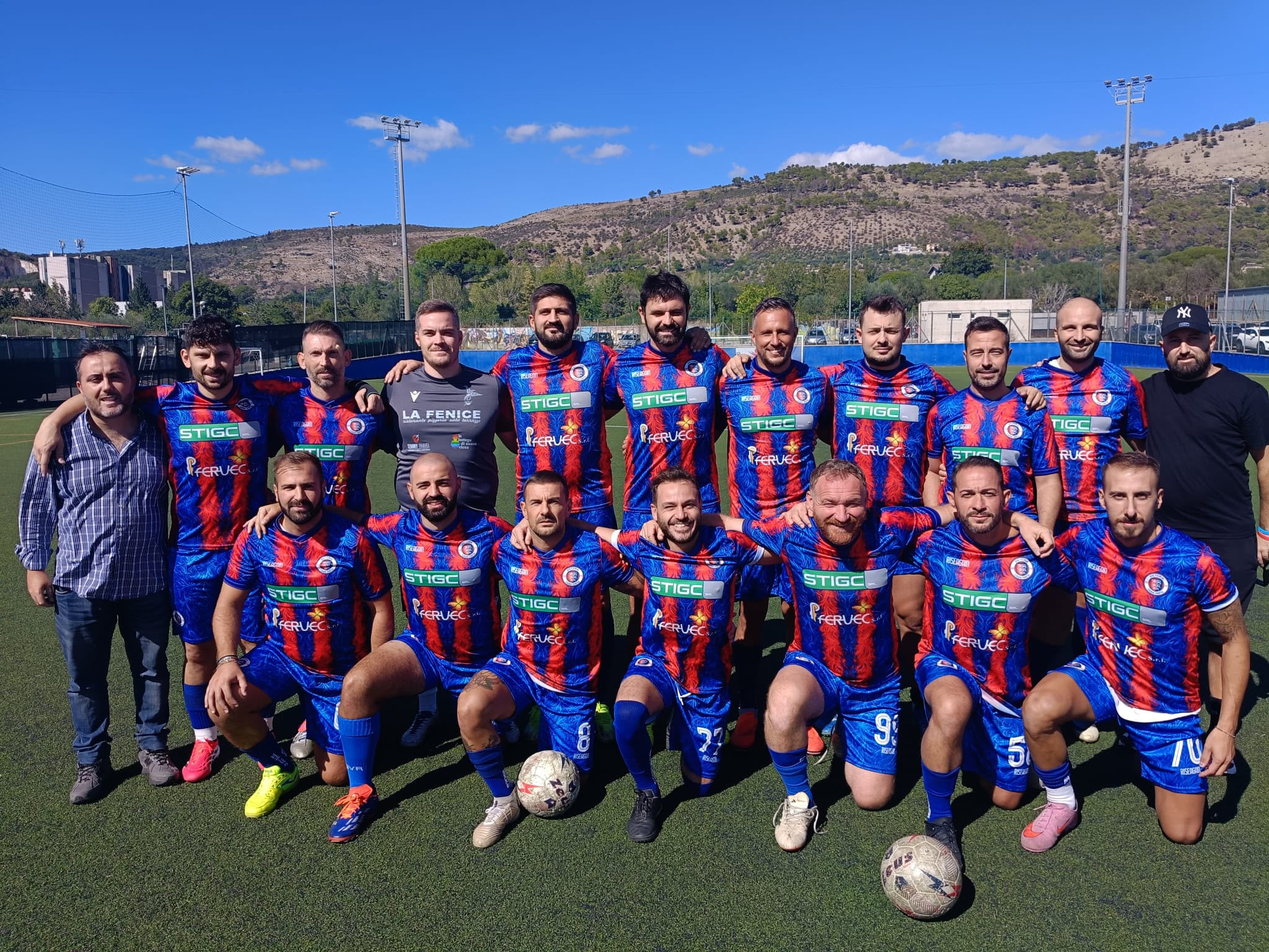
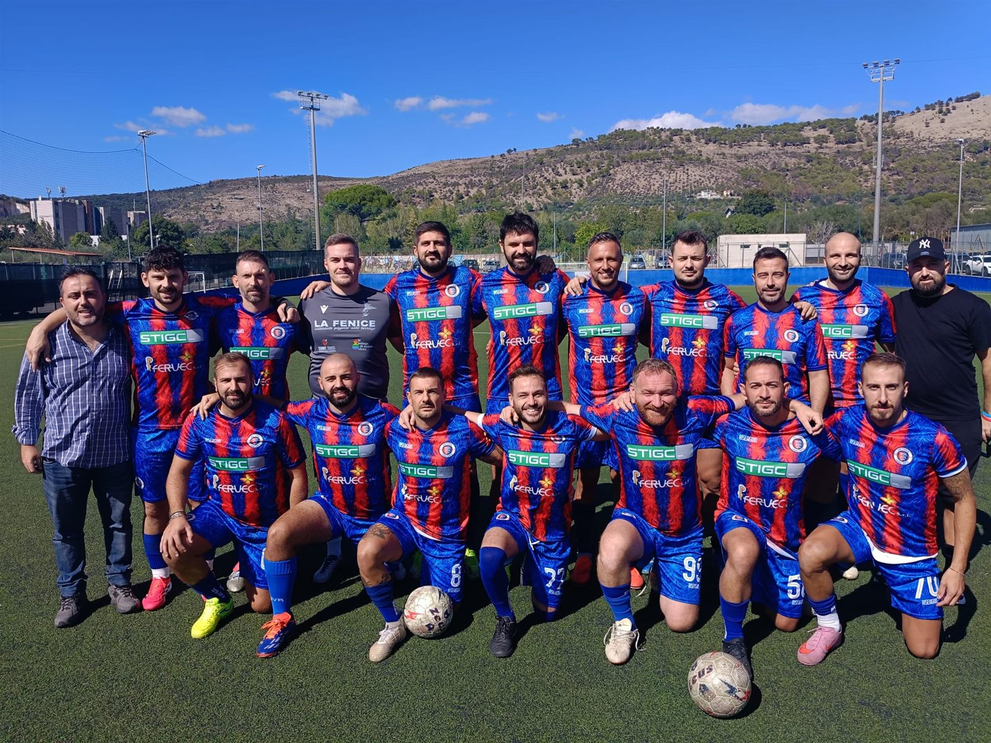
fix: disattiva Image Optimization di Vercel e comprime le foto al caricamento
Il piano gratuito ha solo 5.000 trasformazioni al mese, esaurite.
Le immagini ora sono servite così come sono e l'admin le ridimensiona
a 1600px in WebP prima del caricamento. Rimosso il remotePatterns '**'.

Changed region(s): [[0.5938, 0.4625, 0.625, 0.4933]]

diff --git a/src/lib/storage.ts b/src/lib/storage.ts
@@ -1,16 +1,42 @@
 import { supabase } from "@/lib/supabase";
 
+const MAX_SIDE = 1600;
+
+// Ridimensiona e converte in WebP nel browser prima del caricamento:
+// le immagini sono servite così come sono (niente ottimizzazione Vercel),
+// quindi devono essere già leggere. WebP mantiene la trasparenza dei loghi.
+async function compressImage(file: File): Promise<File> {
+  if (!/^image\/(jpeg|png|webp)$/.test(file.type)) return file;
+  try {
+    const bitmap = await createImageBitmap(file);
+    const scale = Math.min(1, MAX_SIDE / Math.max(bitmap.width, bitmap.height));
+    const canvas = document.createElement("canvas");
+    canvas.width = Math.round(bitmap.width * scale);
+    canvas.height = Math.round(bitmap.height * scale);
+    canvas.getContext("2d")!.drawImage(bitmap, 0, 0, canvas.width, canvas.height);
+    bitmap.close();
+    const blob = await new Promise<Blob | null>((resolve) =>
+      canvas.toBlob(resolve, "image/webp", 0.82)
+    );
+    if (!blob || blob.type !== "image/webp" || blob.size >= file.size) return file;
+    return new File([blob], file.name.replace(/\.[^.]+$/, "") + ".webp", { type: "image/webp" });
+  } catch {
+    return file;
+  }
+}
+
 export async function uploadImage(
-  file: File,
+  original: File,
   folder: string
 ): Promise<string | null> {
+  const file = await compressImage(original);
   const ext = file.name.split(".").pop();
   // Il suffisso casuale evita che due foto caricate insieme si sovrascrivano
   const filename = `${folder}/${Date.now()}-${Math.random().toString(36).slice(2, 8)}.${ext}`;
 
   const { error } = await supabase.storage
     .from("media")
-    .upload(filename, file, { upsert: true });
+    .upload(filename, file, { upsert: true, contentType: file.type });
 
   if (error) {
     console.error("Upload error:", error.message);
